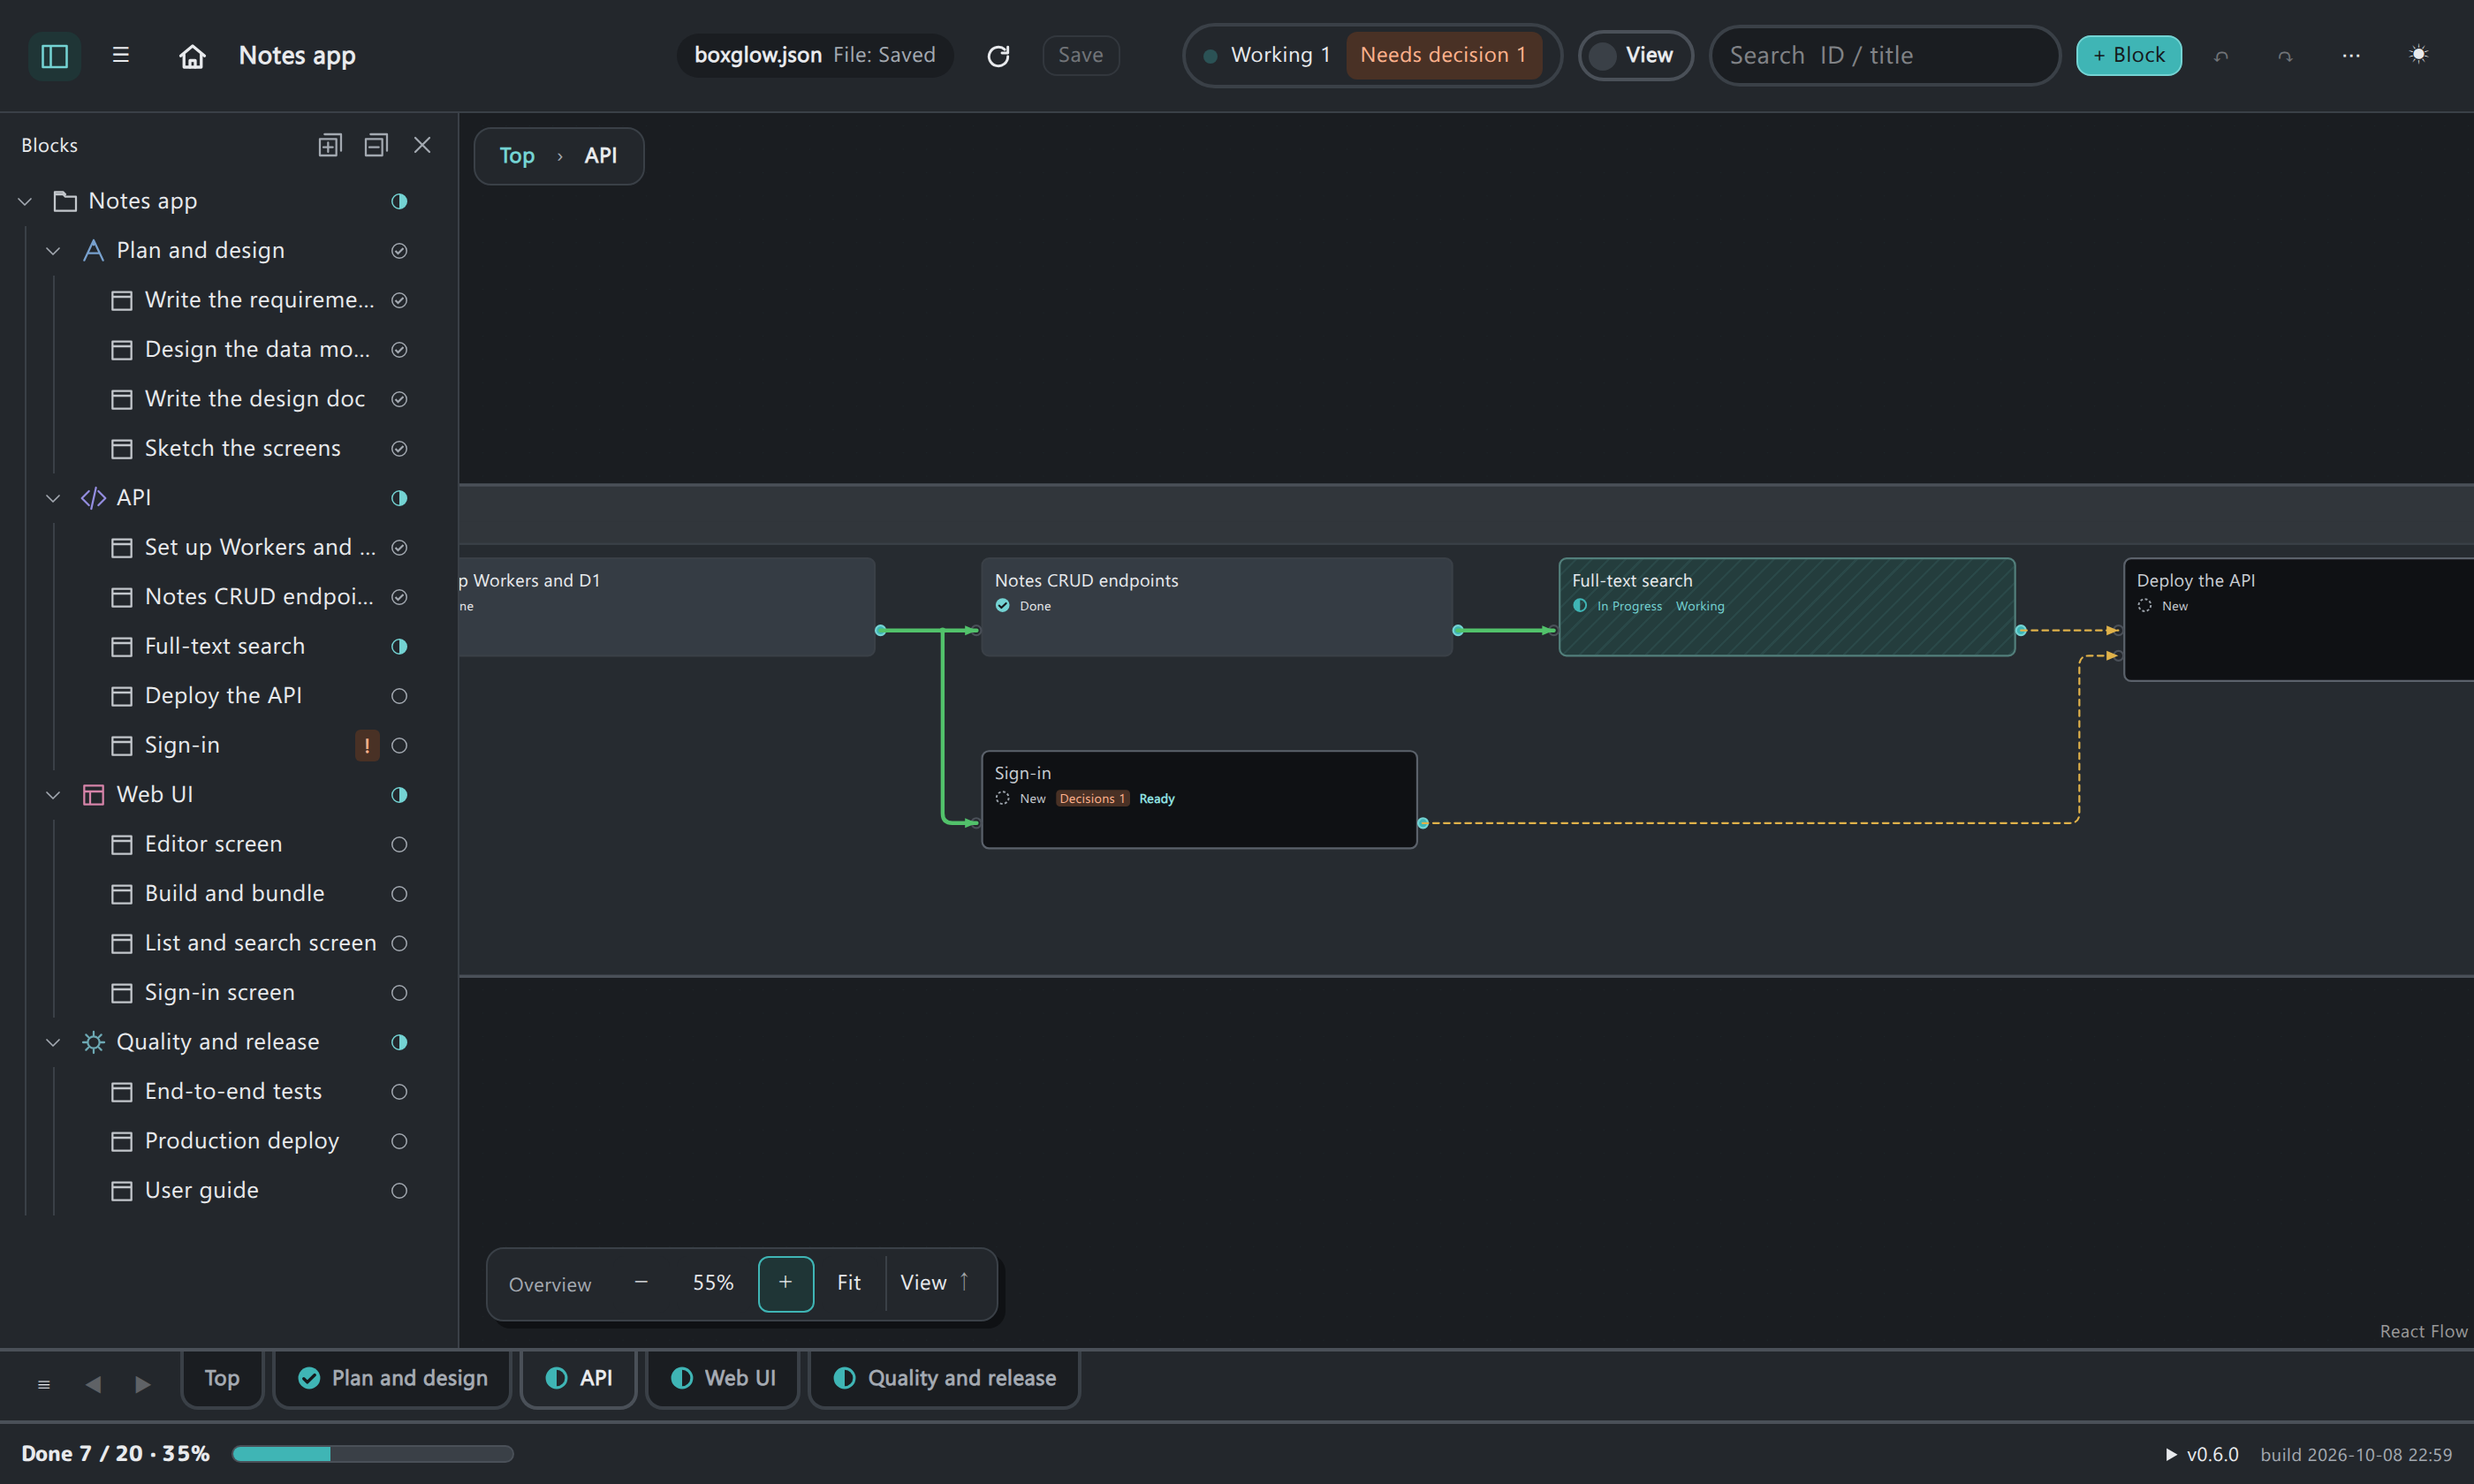
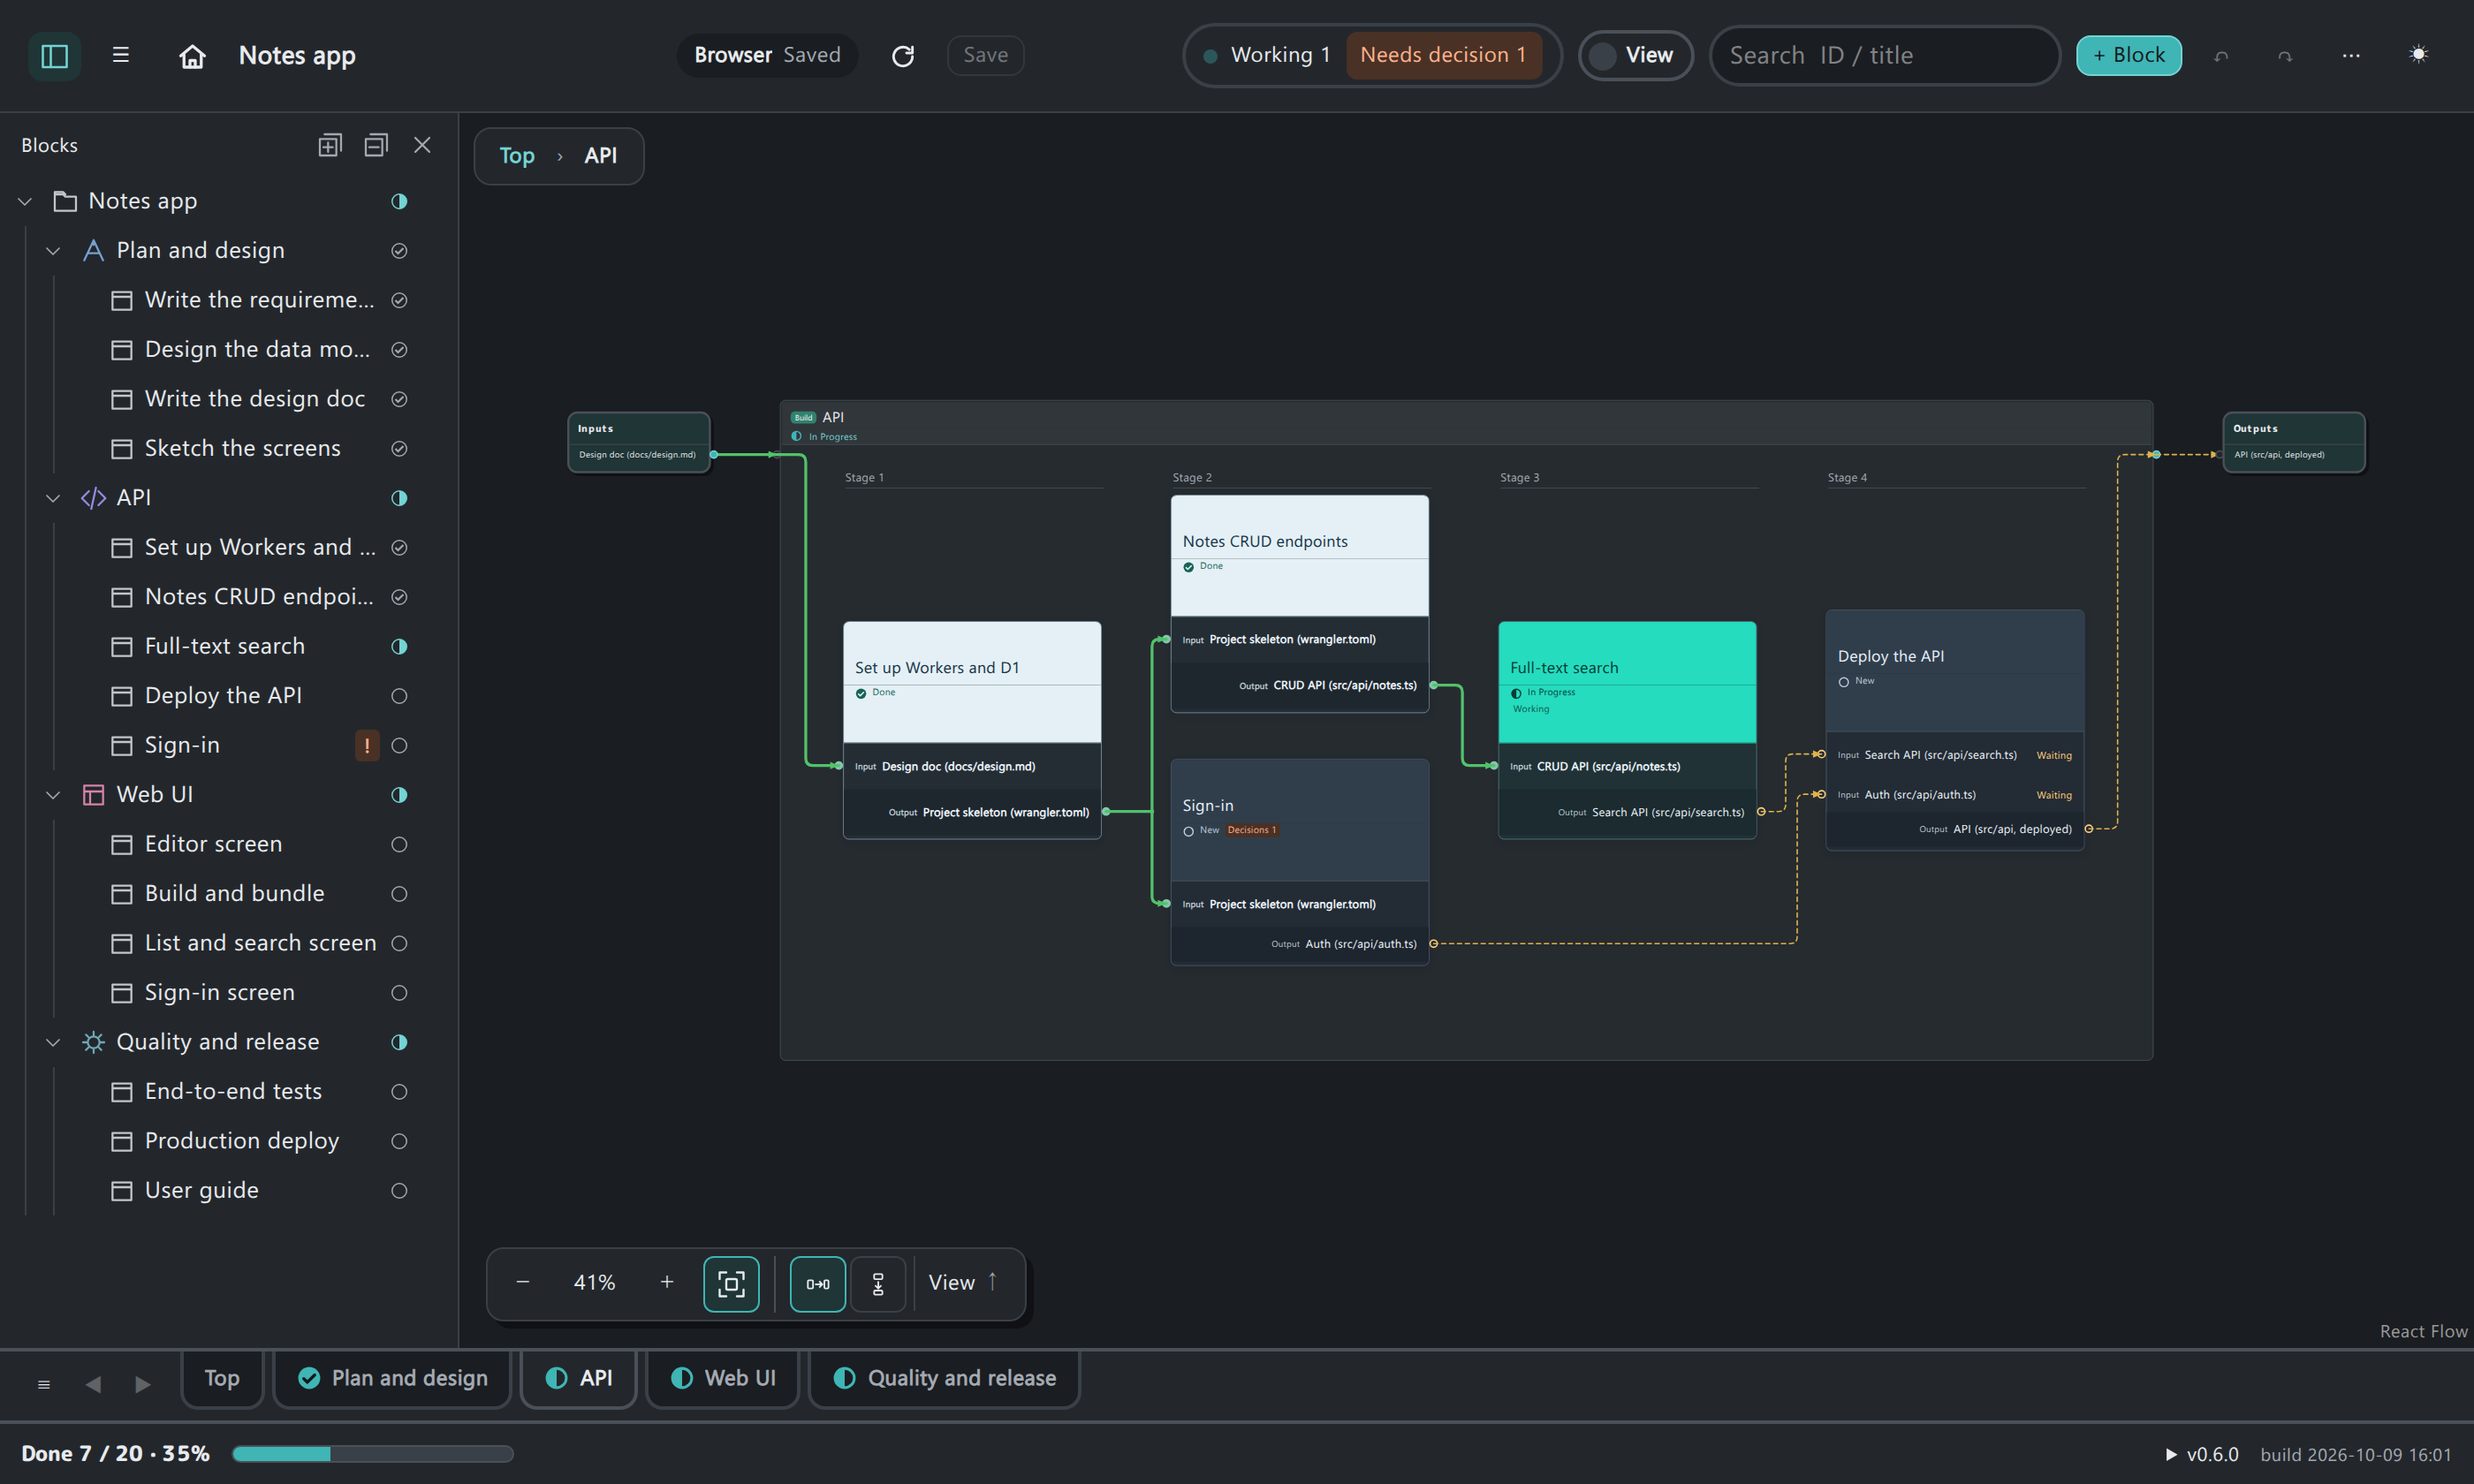
拡張の説明: 新しいカードと工程順の画面に撮り直し、縦表示の画像と説明を追加

diff --git a/vscode/README.md b/vscode/README.md
@@ -4,21 +4,27 @@
 
 Boxglow keeps a project plan in one file, `boxglow.json`: tasks are boxes with inputs and outputs, nested without limit. AI agents (Claude Code, Codex, ...) update the file through a CLI or MCP as they start, finish, or need a decision. This extension opens that file as a live diagram inside VS Code.
 
-![The whole plan: four major boxes, wires show what feeds what](https://raw.githubusercontent.com/sukima-log/Boxglow/main/vscode/images/overview.png)
+![The whole plan: four major boxes in dependency order (Stage 1 to 4), wires show what feeds what](https://raw.githubusercontent.com/sukima-log/Boxglow/main/vscode/images/overview.png)
 
 ## How a plan is laid out
 
 The **Top** view shows only the major boxes. Each major box opens as a tab with everything inside it, nested. Wires show which output feeds which input, so you can see what is blocked by what.
+
+In View mode the boxes are laid out in dependency order as numbered stages, left to right: each card shows its category, title and state, with its inputs on the left and outputs on the right. Your own layout in the file is untouched and is used in Edit mode.
 
 ![Top shows the major boxes; a tab shows everything inside one of them](https://raw.githubusercontent.com/sukima-log/Boxglow/main/vscode/images/levels.png)
 
 ## What you see
 
 - **Where the agent is working**: the box it is on carries a "Working" tag; the top bar counts what is in progress and what needs a decision.
-- **What is done and what is not**: New boxes are dark, boxes in progress are hatched, done boxes are light. Green wires carry a finished deliverable, amber wires are still waiting.
+- **What is done and what is not**: the card header shows the state: teal for in progress, light for done, slate for new. Green wires carry a finished deliverable, amber wires (and the "Waiting" label on an input) are still waiting.
 - **The block tree**: the sidebar button opens the whole hierarchy. Jump to a box, or add, rename, move and delete boxes right from the tree.
 
 ![Inside the API tab, with the block tree: one box in progress, one waiting for a decision](https://raw.githubusercontent.com/sukima-log/Boxglow/main/vscode/images/tab.png)
+
+- **Vertical view**: switch the flow to top-to-bottom from the zoom panel and read the plan by scrolling, with inputs above each card and outputs below. Ctrl + wheel (Cmd + wheel on a Mac) zooms.
+
+![The same API tab as a vertical flow, read from top to bottom](https://raw.githubusercontent.com/sukima-log/Boxglow/main/vscode/images/vertical.png)
 
 - **Decisions in one place**: when an agent asks a question, the box is marked. Pick an option or write an answer in the side panel; the agent reads it from the file and carries on. Your answer stays listed until the agent has picked it up.
 
